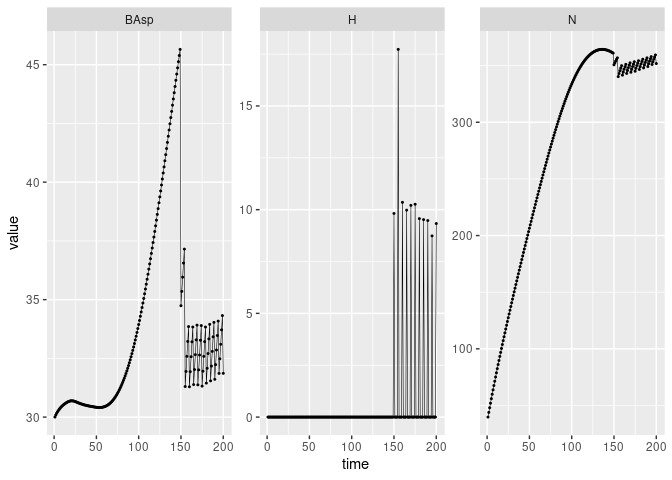
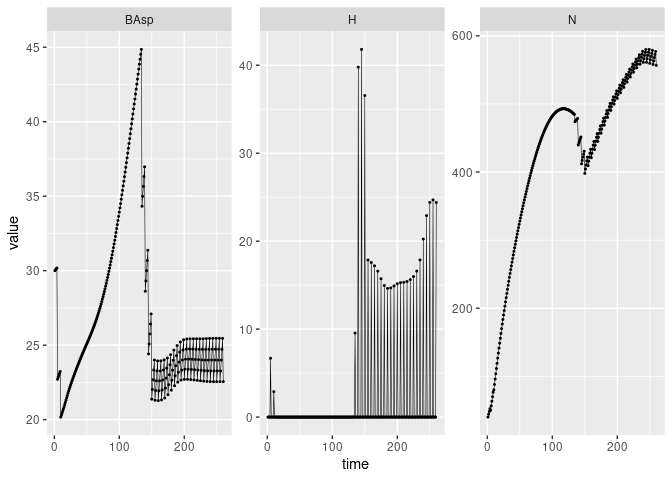
update vignette

diff --git a/vignettes/Harvesting.md b/vignettes/Harvesting.md
@@ -1,21 +1,20 @@
 Harvesting models
 ================
 
-This vignette illustrate how to use harvesting scenarii with `{matreex}`
-package. An harvesting scenario is a simulation modification that will
-trigger some additional death in defined size distribution. This
-distribution is differenciated from base mortality and is saved and
-exported for each simulation.
+This vignette illustrates how to use harvesting scenarii with
+`{matreex}` package. An harvesting scenario provides the rules and the
+periodicity to trigger harvesting of trees in each size classes. The
+harvested trees are saved and exported for each simulation time step.
 
-This document will skip the usage of basic function that are shown in [a
-previous introduction vignette](matreex.html).
+The basic `{matreex}` functions are shown in [a previous introduction
+vignette](matreex.html).
 
 # Simulations input
 
 ## Define a species
 
-The first step of IPM integration. This part is common with basic usage
-of the package so nothing is very important here.
+The first step is the IPM integration. This part is common with basic
+usage of the package, so nothing is very important here.
 
 **Please keep in mind this computation is intensive and may take few
 minutes !**
@@ -34,8 +33,10 @@ data("climate_species")
 climate <- subset(climate_species, N == 2 & sp == "Picea_abies", select = -sp)
 # see ?climate_species to understand the filtering of N.
 climate
-#>        sgdd       wai        sgddb      waib      wai2   sgdd2      PC1        PC2 N       SDM
-#> 62 1444.667 0.4519387 0.0006922012 0.6887343 0.2042486 2087062 1.671498 0.02602064 2 0.6760556
+#>        sgdd       wai        sgddb      waib      wai2   sgdd2      PC1        PC2 N
+#> 62 1444.667 0.4519387 0.0006922012 0.6887343 0.2042486 2087062 1.671498 0.02602064 2
+#>          SDM
+#> 62 0.6760556
 
 Picea_ipm <- make_IPM(
     species = "Picea_abies", 
@@ -43,24 +44,25 @@ Picea_ipm <- make_IPM(
     fit = fit_Picea_abies,
     clim_lab = "optimum clim", 
     mesh = c(m = 700, L = 90, U = get_maxdbh(fit_Picea_abies) * 1.1),
-    BA = 0:50, # Default values are 0:200, smaller values speed up this vignette.
+    BA = 0:70, # Default values are 0:200, smaller values speed up this vignette.
     verbose = TRUE
 )
 #> Launching integration loop
 #> GL integration occur on 32 cells
 #> midbin integration occur on 25 cells
 #> Loop done.
-#> Time difference of 25.8 secs
+#> Time difference of 38.5 secs
 ```
 
-Harvesting rules have different scales : some rules are defined for each
-species, others at the forest level and lastly input parameters when
-launching simulation. These rules can always be defined but will only be
-used when the correct module is triggered by simulations. The table
-below summarise the required parameters for each scenario. Each scenario
-have an example in the following document.
+Harvesting scenario are defined at different levels: at the species
+level with the species harvesting function and its associated
+parameters, at the forest level with a set of parameters, and at the
+simulation level with the target of the harvesting scenario. Depending
+on the scenario used, not all the parameters are used. The table below
+summarise the required parameters for each scenario. Each scenario have
+an example in the following document.
 
-| Harvesting scenario       | Species function                     | Species parameters | Forest parameters                | Simulation parameters       |
+| Harvesting scenario       | Species harvesting function          | Species parameters | Forest parameters                | Simulation parameters       |
 |---------------------------|--------------------------------------|--------------------|----------------------------------|-----------------------------|
 | default                   | `def_harv()` <br> or custom by user. | $\emptyset$        | `harv_rules["freq"]`             | $\emptyset$                 |
 | Uneven                    | `Uneven_harv()`                      | `harv_lim`         | `harv_rules`                     | `targetBA`                  |
@@ -71,29 +73,19 @@ the `Uneven_harv()` function with `harv_lim` parameters. The forest will
 need to have `harv_rules` parameters. The `sim_deter_forest()` require
 `targetBA` argument. If `targetRDI` is defined, it will not be used.
 
-In multi-specific simulation, it is possible to combine Uneven or Even
-managed species with default species.
-
-| species 1 | species 2 | Harvesting scenario to use |
-|-----------|-----------|----------------------------|
-| default   | default   | default                    |
-| Uneven    | default   | Uneven                     |
-| Even      | default   | Even                       |
-| Uneven    | Even      | **Not possible !**         |
-
 # Default scenario
 
 ## Presentation
 
 The default scenario is based on Kunstler et al.
 ([2021](#ref-kunstler2021)). This mean there is a constant harvest rate
-triggered each year. This harvest rate is uniform on the distribution.
-This is the scenario used when no modification is given.
+triggered each year. This harvest rate is uniform over the size
+distribution. This is the scenario used by default.
 
 This rate is coded in `def_harv()` function as shown below and the
 frequency (each year) is given in `harv_rules["freq"]`. Note that the
-rate only impact all size classes except classes used in delay (with
-`* (ct > 0)`).
+harvesting is applied to all size class except the age-classes used in
+delay (with `* (ct > 0)`).
 
 ``` r
 def_harv
@@ -116,7 +108,7 @@ With this scenario, the simulation can be launched without any
 additional parameter.
 
 ``` r
-set.seed(42) # The seed is here for initial population random functions.
+set.seed(42) # The seed is here to replicate the random population initialisation.
 Picea_sim <- sim_deter_forest(
     Picea_for,
     tlim = 200,
@@ -127,14 +119,14 @@ Picea_sim <- sim_deter_forest(
 )
 #> Starting while loop. Maximum t = 200
 #> Simulation ended after time 200
-#> BA stabilized at 45.16 with diff of 0.69 at time 200
+#> BA stabilized at 45.62 with diff of 1.04 at time 200
 #> Time difference of 0.821 secs
 ```
 
 Once the simulation is done, we can extract the basal area and the
-number of individual at each step of the simulation. The new variable we
-can look now is $H$, the sum of harvest distribution at each step. This
-distribution is also exported with an harvest value for each mesh cell
+number of individual at each step of the simulation, but also a new
+variable $H$. This is the sum of density of harvested trees at each time
+step. The density of harvested trees is also exported for each size mesh
 $h_i$.
 
 In this case, $H$ is correlated with $N$ since it’s a constant
@@ -146,7 +138,7 @@ Picea_sim  %>%
     dplyr::filter(var %in% c("BAsp", "N", "H"), ! equil) %>%
     ggplot(aes(x = time, y = value)) +
     facet_wrap(~ var, scales = "free_y") +
-    geom_line(size = .2) + geom_point(size = 0.4) 
+    geom_line(linewidth = .2) + geom_point(size = 0.4) 
 ```
 
 ![](Harvesting_files/figure-gfm/sp1plot-1.png)<!-- -->
@@ -171,22 +163,24 @@ Picea_sim_f20 <- sim_deter_forest(
 )
 #> Starting while loop. Maximum t = 50
 #> Simulation ended after time 50
-#> BA stabilized at 30.14 with diff of 0.02 at time 50
-#> Time difference of 0.27 secs
+#> BA stabilized at 29.24 with diff of 0.25 at time 50
+#> Time difference of 0.315 secs
 Picea_sim_f20  %>%
     dplyr::filter(var %in% c("BAsp", "N", "H"), ! equil) %>%
     ggplot(aes(x = time, y = value)) +
     facet_wrap(~ var, scales = "free_y") +
-    geom_line(size = .2) + geom_point(size = 0.4) 
+    geom_line(linewidth = .2) + geom_point(size = 0.4) 
 ```
 
 ![](Harvesting_files/figure-gfm/def_freq-1.png)<!-- -->
 
-A more advanced step consist in modification of the harvest function for
-more custom effects. Obviously, this kind of modification is more prone
-to error so don’t hesitate to contact `{matreex}` maintainer. For
-example, this is function where we multiply a constant rate with the
-mesh, meaning that the larger the tree get, the more we its size class.
+A more advanced modification of the harvest function is ilustratted
+below. Obviously, this type of modification have not been thoroughly
+tested and thus is more prone to error so don’t hesitate to contact
+`{matreex}` maintainer in case of trouble. For example, we add a
+function where we multiply a constant rate with the mesh, meaning that
+the larger the tree get, the higher the harvesting rate of its size
+class.
 
 ``` r
 Picea_harv <- Picea_sp
@@ -212,13 +206,13 @@ Picea_sim_f20 <- sim_deter_forest(
 )
 #> Starting while loop. Maximum t = 250
 #> Simulation ended after time 250
-#> BA stabilized at 25.86 with diff of 5.25 at time 250
-#> Time difference of 1.07 secs
+#> BA stabilized at 27.62 with diff of 4.85 at time 250
+#> Time difference of 1.04 secs
 Picea_sim_f20  %>%
     dplyr::filter(var %in% c("BAsp", "N", "H"), ! equil) %>%
     ggplot(aes(x = time, y = value)) +
     facet_wrap(~ var, scales = "free_y") +
-    geom_line(size = .2) + geom_point(size = 0.4) 
+    geom_line(linewidth = .2) + geom_point(size = 0.4) 
 ```
 
 ![](Harvesting_files/figure-gfm/edit_def_harv-1.png)<!-- -->
@@ -227,8 +221,10 @@ Picea_sim_f20  %>%
 
 ## Theory
 
-Uneven harvest scenario consist in harvesting tree depending on the
-basal area of the stand and the distribution of the tree sizes. This
+Uneven-aged harvest scenario consist in harvesting trees in all size
+classes with the objective to reach a stable size structure with
+continuous replacing of large mature trees. This scenario depends on the
+basal area of the stand and the size distribution of the tree. This
 should lead to stands with uneven size distribution.
 
 ### Monospecific case
@@ -239,15 +235,16 @@ We note $P_{cut}$ the global harvest proportion which will determine the
 amount of basal area to be cut and harvested.
 
 $$
-P_{cut} = \left\{
+P_{cut} = \left\lbrace
  \begin{array}{ll}
     0 & if (BA_{stand} - BA_{target}) < \Delta BA_{min}\\
     min(\frac{BA_{stand}-BA_{target}}{BA_{stand}}, P_{max}) & if (BA_{stand} - BA_{target}) \geq \Delta BA_{min}
  \end{array}
- \right\}
+ \right\rbrace
 $$
 
-For example, $\Delta BA_{min} = 3 m^2ha^{-1}$, $BA_{target} = 20, 25$ or
+For example, some numerical values of the parameters can be
+$\Delta BA_{min} = 3 m^2ha^{-1}$, $BA_{target} = 20, 25$ or
 $30 m^2ha^{-1}$ (depending on species) and $P_{max} = 0.25$.
 
 Note that stand basal area $BA_{stand}$ is computed only considering
@@ -256,12 +253,14 @@ trees with a dbh above $d_{th}$ (see below).
 #### Harvest curve
 
 Each tree harvest probability only depends on its diameter ($d$). There
-is a minimum diameter of harvest ($d_{th}$), harvest probability then
-increases with diameter until $d_{ha}$, the harvesting diameter after
-which harvest probability is high and constant.
+is a minimum diameter for harvest ($d_{th}$), harvest probability then
+increases with diameter until $d_{ha}$ after which harvest probability
+is constant.
 
 We therefore considered the harvesting function (which associates a dbh
-to an harvesting probability) $$
+to an harvesting probability)
+
+$$
 h(d) = \left\lbrace
  \begin{array}{ll}
     0 & \text{if } d < d_{th} \\
@@ -271,11 +270,11 @@ h(d) = \left\lbrace
  \right\rbrace
 $$
 
-The parameter $h_{max}$ can be tuned so that the probability for a large
-tree to be harvested approaches 1 after several harvesting operations:
-$h_{max} = 1 - \sqrt[n]{1-p}$ with $n$ the number of harvesting
-operations. Parameter $k$ defines how much the harvest preferentially
-selects large trees.
+The maximum harvesting for large tree $h_{max}$ can be tuned so that the
+probability for a large tree to be harvested approaches 1 after several
+harvesting operations: $h_{max} = 1 - \sqrt[n]{1-p}$ with $n$ the number
+of harvesting operations. Parameter $k$ defines how quickly the
+harvesting rate increase from $d_{th}$ to $d_{ha}$.
 
 ![Harvest curve example, $d_{th} = 17.5cm$, $d_{ha}=57.5cm$,
 $h_{max}=0.8$,
@@ -290,28 +289,23 @@ Given $\phi(x)$ the density function of diameters, the basal area
 harvested is
 
 $$ 
-\begin{array}{ll}
-BA_{harv} & = \pi/4\int_{d_{th}}^{d_{max}}x^2 h(x) \phi(x)dx \\
-          & = \pi/4\int_{d_{th}}^{d_{ha}}x^2 h(x) \phi(x)dx + h_{max} \pi/4\int_{d_{ha}}^{d_{max}}x^2 \phi(x)dx\\
-      & = BA_{th} + BA_{ha}
-\end{array}
+BA_{harv} = BA_{th} + BA_{ha}
+$$ with $$ 
+BA_{ha} =  h_{max} \pi/4\int_{d_{ha}}^{d_{max}}x^2 \phi(x)dx
 $$
 
 $\bullet$ If $BA_{ha} >= P_{cut} \times BA_{stand}$, there is enough
 large trees (diameter above $d_{ha}$) so that the harvest will only
-concern large trees: $BA_{th} = 0$.
+concern large trees and $BA_{th} = 0$.
 
-We then have two different strategies : we can either adapt $h_{max}$ or
-$d_{ha}$ so that:
-$$  BA_{ha} = h_{max} \pi/4 \int_{d_{ha}}^{d_{max}}x^2 \phi(x)dx = P_{cut} \times BA_{stand}$$
-The `{matreex}` package will cut the larger trees until
-$P_{cut} \times BA_{ha} - targetBA <= 0$, since $h_{max}$ and $d_{ha}$
-are values set by the user and won’t be modified. This is equivalent to
-find an harvest diameter $d_t$ such as $d_{ha} < d_t < d_{max}$.
+We then find $d_t$ (with $d_{ha} < d_t < d_{max}$) such that:
+$$  BA_{ha} = h_{max} \pi/4 \int_{d_{t}}^{d_{max}}x^2 \phi(x)dx = P_{cut} \times BA_{stand}$$
+Thus, the `{matreex}` package will cut the larger trees until
+$P_{cut} \times BA_{ha} - targetBA <= 0$.
 
 $\bullet$ If $BA_{ha} < P_{cut} \times BA_{stand}$, we first harvest
 $BA_{ha}$ and then compute $k$ such as:
-$BA_{th} = P_{cut} \times BA_{stand} - BA_{ha}$.
+$BA_{th} = P_{cut} \times BA_{stand} - BA_{ha}$. Note that
 
 ### Multispecific case
 
@@ -349,17 +343,17 @@ which is equivalent to $\sum_{i=1}^{s} p_i f(p_i) = 1$
 The case $f(p_i) = 1$ works, which leads to $P_{cut,i} = P_{cut}$. In
 that case the harvest rate is the same for every species $i$.
 
-More broadly, \$ \> 0\$
-
-$$f(p_i) = \frac{p_i^{\alpha - 1}}{\sum_{i=1}^{s} p_i ^{\alpha}}$$
+More broadly, we can use the function
+$$f(p_i) = \frac{p_i^{\alpha - 1}}{\sum_{i=1}^{s} p_i ^{\alpha}}$$, \$
+\> 0\$
 
 For $\alpha = 2$, we for example have
 
-$$f(p_i) =\frac{p_i}{\sum_{i=1}^{s} p_i ^2} $$ To sum up $\alpha = 1$,
-an abundant species will be more harvested, in effort to balance the
-species. For $\alpha < 1$, the abundant species will be less harvested.
-Finally, $\alpha > 1$ the most abundant species will be cut more, in a
-greater proportion than that allowing to tend towards an equilibrium.
+$$f(p_i) =\frac{p_i}{\sum_{i=1}^{s} p_i ^2} $$ To sum up,
+if$\alpha = 1$, an abundant species will be more harvested, in effort to
+reach an equi-abundance of the species. For $\alpha < 1$, the abundant
+species will be less harvested. Finally, for $\alpha > 1$ the most
+abundant species will be harvested more, in a greater proportion than 1.
 
 <!--
 #### Favoured species
@@ -397,21 +391,21 @@ Picea_for_Uneven <- forest(species = list(Picea = Picea_Uneven),
 set.seed(42) # The seed is here for initial population random functions.
 Picea_sim_f20 <- sim_deter_forest(
     Picea_for_Uneven,
-    tlim = 200,
-    equil_time = 200, equil_dist = 10, equil_diff = 1,
-    harvest = "Uneven", targetBA = 30, # We change the harvest and set targetBA.
+    tlim = 260,
+    equil_time = 260, equil_dist = 10, equil_diff = 1,
+    harvest = "Uneven", targetBA = 20, # We change the harvest and set targetBA.
     SurfEch = 0.03,
     verbose = TRUE
 )
-#> Starting while loop. Maximum t = 200
-#> Simulation ended after time 200
-#> BA stabilized at 31.86 with diff of 2.71 at time 200
-#> Time difference of 0.948 secs
+#> Starting while loop. Maximum t = 260
+#> Simulation ended after time 260
+#> BA stabilized at 22.55 with diff of 2.91 at time 260
+#> Time difference of 1.18 secs
 Picea_sim_f20  %>%
     dplyr::filter(var %in% c("BAsp", "N", "H"), ! equil) %>%
     ggplot(aes(x = time, y = value)) +
     facet_wrap(~ var, scales = "free_y") +
-    geom_line(size = .2) + geom_point(size = 0.4) 
+    geom_line(linewidth = .2) + geom_point(size = 0.4) 
 ```
 
 ![](Harvesting_files/figure-gfm/Uneven_sim-1.png)<!-- -->
